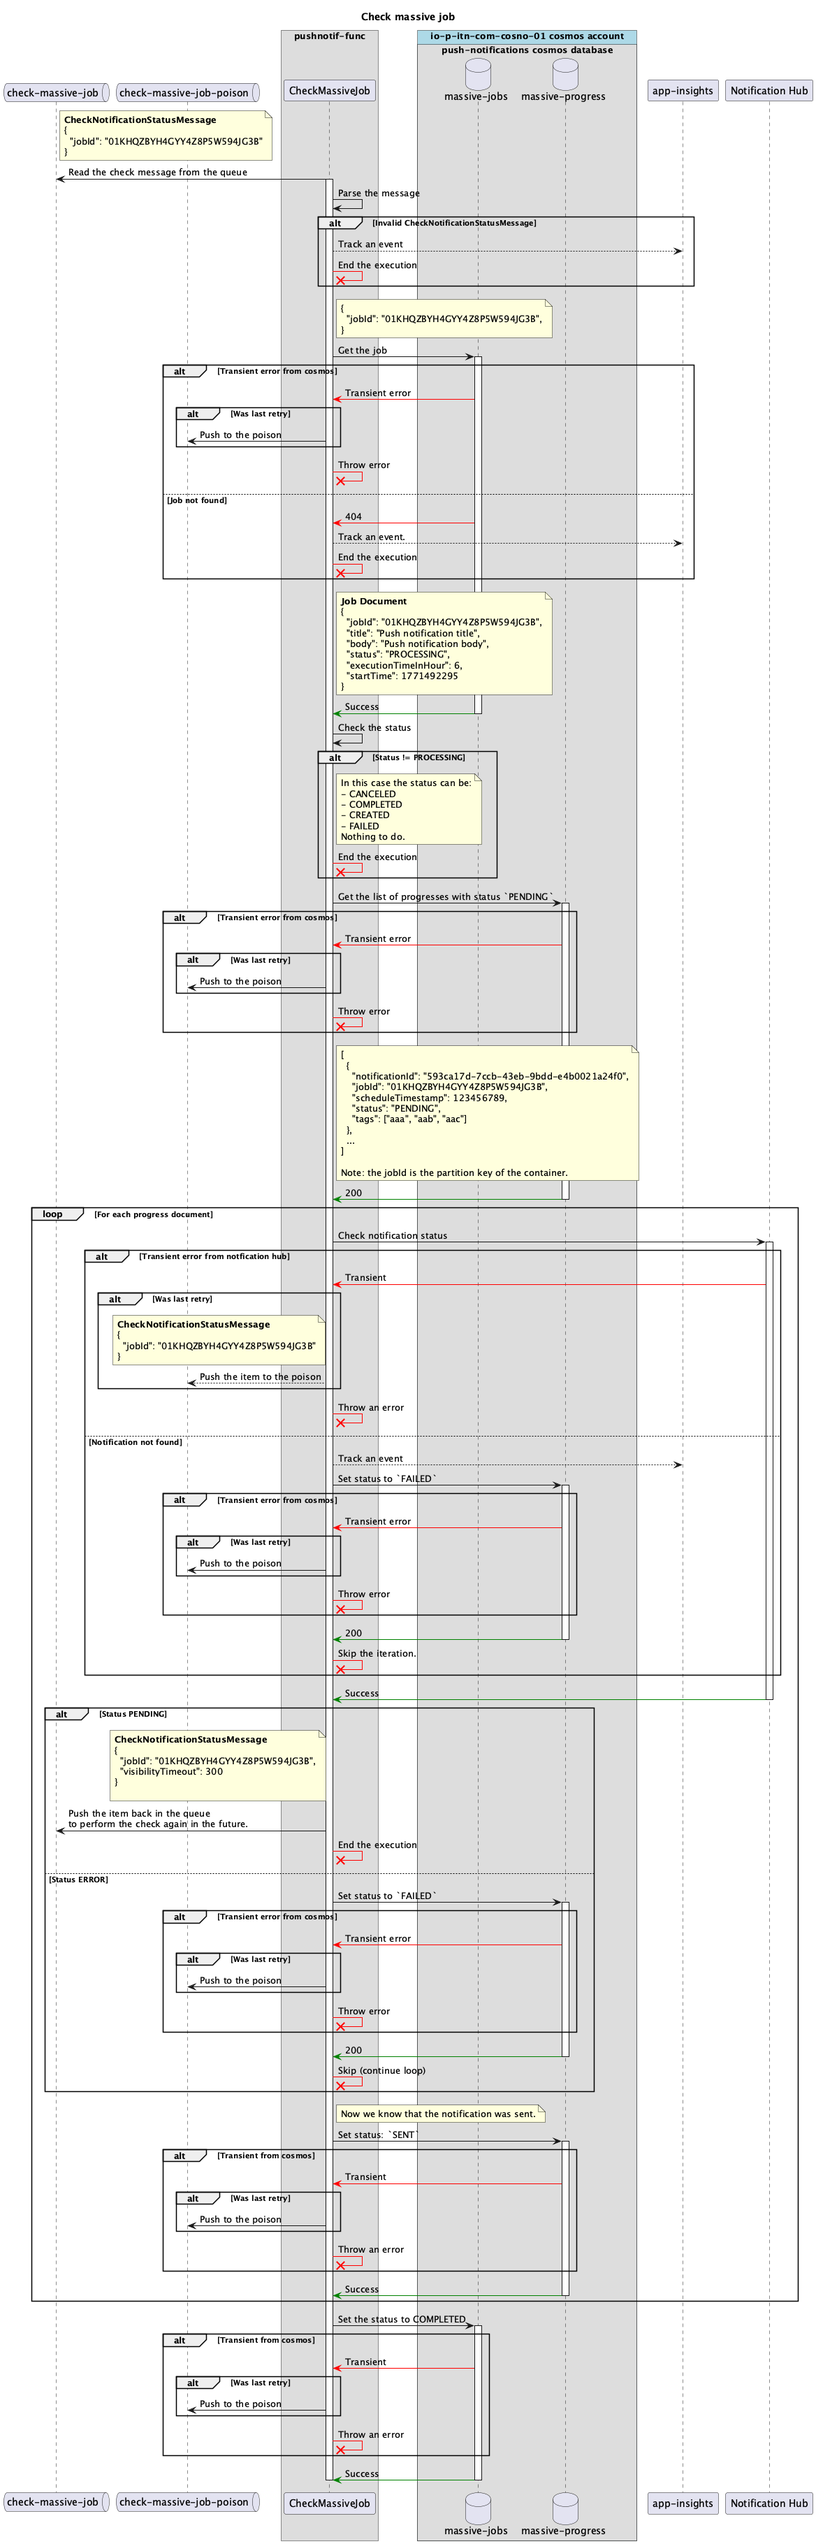
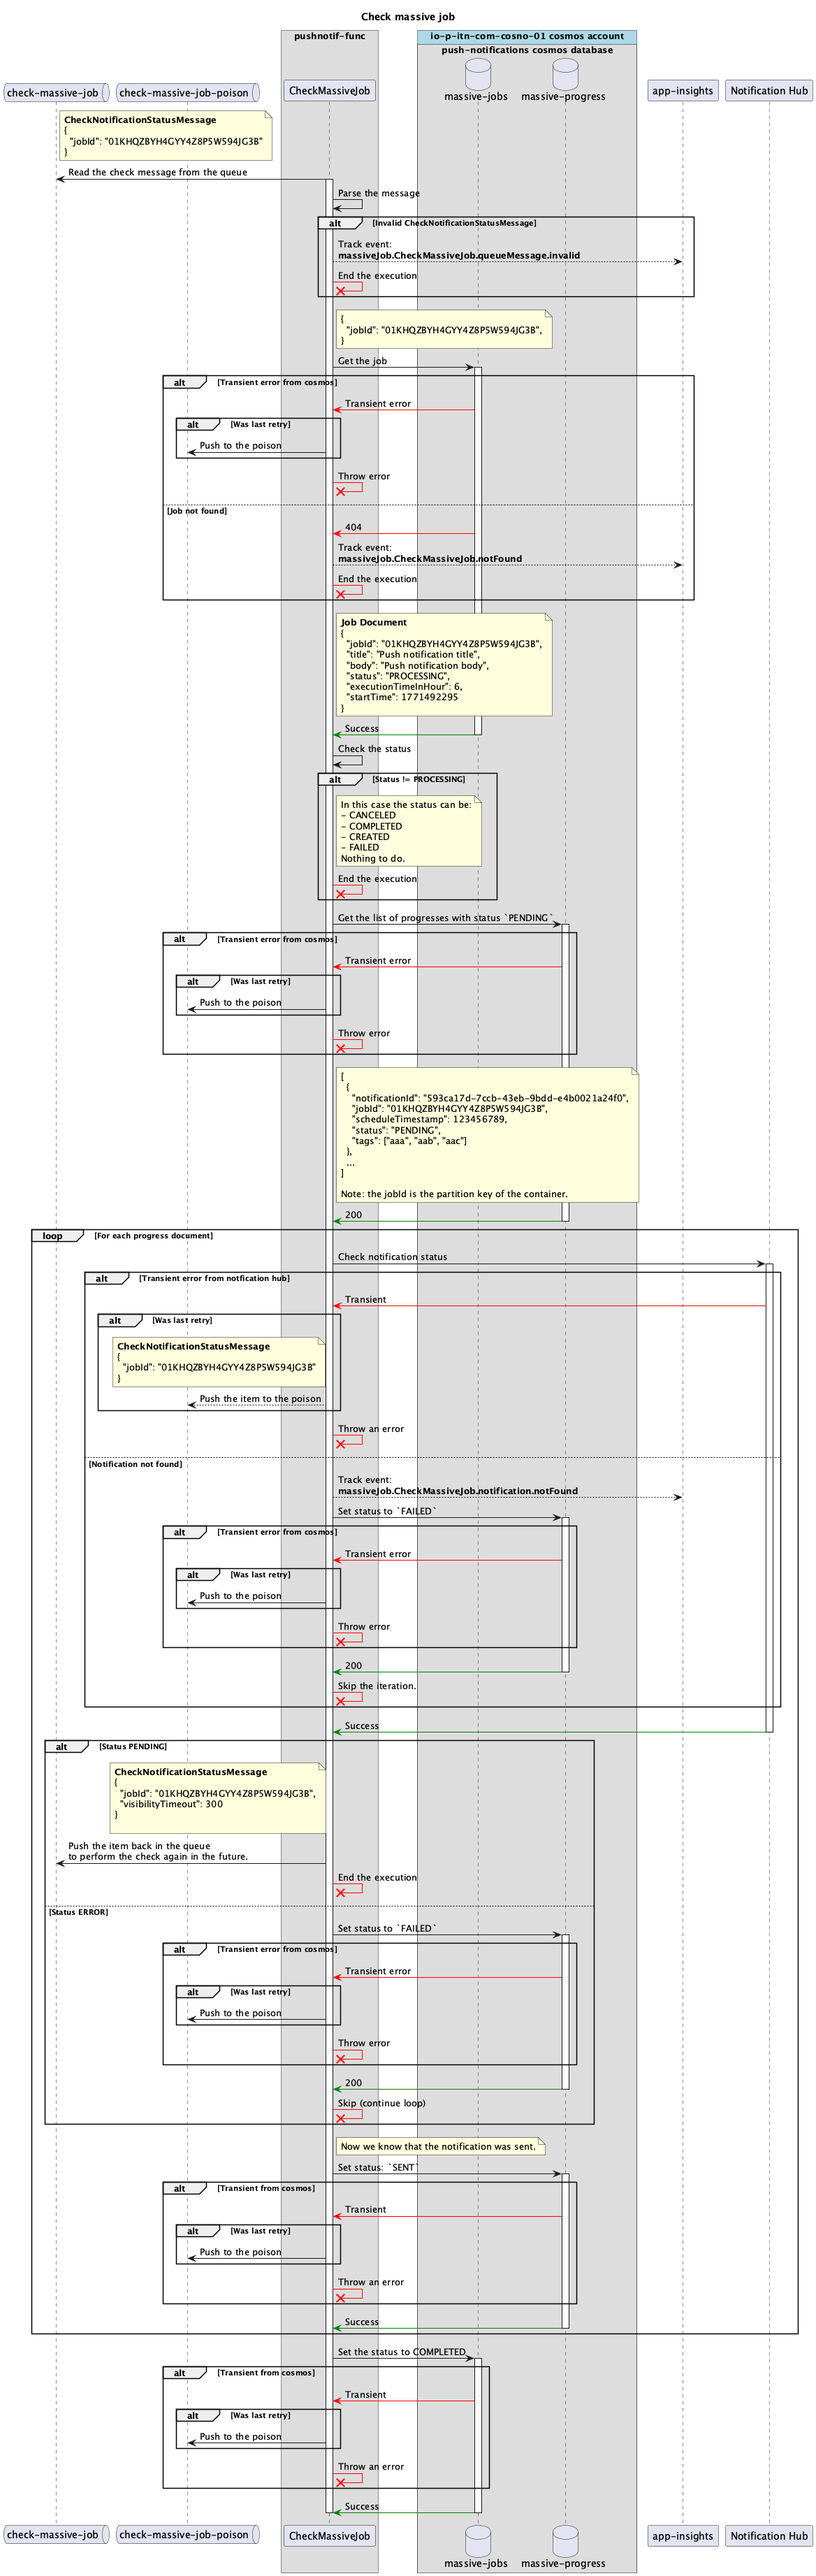
Update massive job event traking
- Define a standard for naming (prefix.phase.outcome)
- Update event names
- Update event payloads
- Align diagrams

Closes IOCOM-3102

diff --git a/apps/pushnotif-func/src/domain/use-cases/__tests__/process-massive-job.test.ts b/apps/pushnotif-func/src/domain/use-cases/__tests__/process-massive-job.test.ts
@@ -201,11 +201,14 @@ describe("ProcessMassiveJobUseCase", () => {
         expect(result).toEqual([notificationID1, notificationID2]);
         expect(massiveProgressRepositoryMock.create).toHaveBeenCalledTimes(2);
         expect(telemetryServiceMock.trackEvent).toHaveBeenCalledWith({
-          name: "massiveJobs.createProgress.failed",
+          name: "massiveJob.ProcessMassiveJob.progress.create.failed",
           properties: {
-            cause: createError.cause,
-            message: createError.message,
-            name: createError.name,
+            errorCause: createError.cause,
+            errorKind: "ErrorInternal",
+            jobId,
+            notificationId: notificationID1,
+            scheduledTimestamp,
+            tags: ["aaa"],
           },
         });
       });
@@ -251,19 +254,25 @@ describe("ProcessMassiveJobUseCase", () => {
         expect(result).toEqual([notificationID1, notificationID2]);
         expect(telemetryServiceMock.trackEvent).toHaveBeenCalledTimes(2);
         expect(telemetryServiceMock.trackEvent).toHaveBeenNthCalledWith(1, {
-          name: "massiveJobs.createProgress.failed",
+          name: "massiveJob.ProcessMassiveJob.progress.create.failed",
           properties: {
-            cause: createError1.cause,
-            message: createError1.message,
-            name: createError1.name,
+            errorCause: createError1.cause,
+            errorKind: "ErrorInternal",
+            jobId,
+            notificationId: notificationID1,
+            scheduledTimestamp,
+            tags: ["aaa"],
           },
         });
         expect(telemetryServiceMock.trackEvent).toHaveBeenNthCalledWith(2, {
-          name: "massiveJobs.createProgress.failed",
+          name: "massiveJob.ProcessMassiveJob.progress.create.failed",
           properties: {
-            cause: createError2.cause,
-            message: createError2.message,
-            name: createError2.name,
+            errorCause: createError2.cause,
+            errorKind: "ErrorInternal",
+            jobId,
+            notificationId: notificationID2,
+            scheduledTimestamp,
+            tags: ["bbb"],
           },
         });
       });

diff --git a/apps/pushnotif-func/src/adapters/functions/process-massive-job.ts b/apps/pushnotif-func/src/adapters/functions/process-massive-job.ts
@@ -29,11 +29,11 @@ export const makeProcessMassiveJobHandler =
       processMassiveNotificationMessageSchema.safeParse(message);
 
     if (!checkNotificationStatusMessage.success) {
-      // TODO: find a standard for event names.
       telemetryService.trackEvent({
-        name: "massiveJobs.invalidProcessMassiveNotificationMessage",
+        name: "massiveJob.ProcessMassiveJob.queueMessage.invalid",
         properties: {
           issues: checkNotificationStatusMessage.error.issues,
+          rawMessage: message,
         },
       });
 
@@ -51,11 +51,14 @@ export const makeProcessMassiveJobHandler =
 
     if (progressIDs instanceof ErrorInternal) {
       telemetryService.trackEvent({
-        name: "massiveJobs.process",
+        name: "massiveJob.ProcessMassiveJob.failed",
         properties: {
-          cause: progressIDs.cause,
-          message: progressIDs.message,
-          name: progressIDs.name,
+          errorCause: progressIDs.cause,
+          errorKind: progressIDs.constructor.name,
+          jobId: checkNotificationStatusMessage.data.jobId,
+          scheduledTimestamp:
+            checkNotificationStatusMessage.data.scheduledTimestamp,
+          tags: checkNotificationStatusMessage.data.tags,
         },
       });
 

diff --git a/apps/pushnotif-func/src/adapters/functions/check-massive-job.ts b/apps/pushnotif-func/src/adapters/functions/check-massive-job.ts
@@ -19,10 +19,12 @@ export const makeCheckMassiveJobHandler =
     const checkNotificationStatusMessage =
       checkNotificationStatusMessageSchema.safeParse(message);
     if (!checkNotificationStatusMessage.success) {
-      // TODO: find a standard for event names.
       telemetryService.trackEvent({
-        name: "massiveJobs.invalidCheckNotificationStatusMessage",
-        properties: { issues: checkNotificationStatusMessage.error.issues },
+        name: "massiveJob.CheckMassiveJob.queueMessage.invalid",
+        properties: {
+          issues: checkNotificationStatusMessage.error.issues,
+          rawMessage: message,
+        },
       });
 
       return;
@@ -33,10 +35,9 @@ export const makeCheckMassiveJobHandler =
     );
 
     if (massiveJob instanceof ErrorNotFound) {
-      // TODO: Find a better name.
       telemetryService.trackEvent({
-        name: "massiveJobs.massiveJobNotFound",
-        properties: { id: checkNotificationStatusMessage.data.jobId },
+        name: "massiveJob.CheckMassiveJob.notFound",
+        properties: { jobId: checkNotificationStatusMessage.data.jobId },
       });
     }
 

diff --git a/apps/pushnotif-func/src/adapters/functions/__tests__/process-massive-job.test.ts b/apps/pushnotif-func/src/adapters/functions/__tests__/process-massive-job.test.ts
@@ -49,7 +49,7 @@ describe("makeProcessMassiveJobHandler", () => {
     await handler(invalidMessage, context);
 
     expect(telemetryServiceMock.trackEvent).toHaveBeenCalledWith({
-      name: "massiveJobs.invalidProcessMassiveNotificationMessage",
+      name: "massiveJob.ProcessMassiveJob.queueMessage.invalid",
       properties: expect.objectContaining({
         issues: expect.any(Array),
       }),
@@ -91,11 +91,13 @@ describe("makeProcessMassiveJobHandler", () => {
       telemetryServiceMock,
     );
     expect(telemetryServiceMock.trackEvent).toHaveBeenCalledWith({
-      name: "massiveJobs.process",
+      name: "massiveJob.ProcessMassiveJob.failed",
       properties: {
-        cause: error.cause,
-        message: error.message,
-        name: error.name,
+        errorCause: error.cause,
+        errorKind: "ErrorInternal",
+        jobId: aValidMessage.jobId,
+        scheduledTimestamp: aValidMessage.scheduledTimestamp,
+        tags: aValidMessage.tags,
       },
     });
   });

diff --git a/apps/pushnotif-func/src/domain/use-cases/process-massive-job.ts b/apps/pushnotif-func/src/domain/use-cases/process-massive-job.ts
@@ -55,11 +55,14 @@ export class ProcessMassiveJobUseCase {
         // In this case we want to ignore the error by simply tracking an event,
         // triggering a retry here would mean sending duplicates to users.
         telemetryService.trackEvent({
-          name: "massiveJobs.createProgress.failed",
+          name: "massiveJob.ProcessMassiveJob.progress.create.failed",
           properties: {
-            cause: createResult.cause,
-            message: createResult.message,
-            name: createResult.name,
+            errorCause: createResult.cause,
+            errorKind: createResult.constructor.name,
+            jobId,
+            notificationId: progress.id,
+            scheduledTimestamp,
+            tags: progress.tags,
           },
         });
         continue;

diff --git a/apps/pushnotif-func/src/domain/use-cases/__tests__/start-massive-notification-job.test.ts b/apps/pushnotif-func/src/domain/use-cases/__tests__/start-massive-notification-job.test.ts
@@ -234,12 +234,14 @@ describe("StartMassiveNotificationJobUseCase - telemetry", () => {
     ).toHaveBeenCalledTimes(820);
     expect(telemetryClientMock.trackEvent).toHaveBeenCalledTimes(1);
     expect(telemetryClientMock.trackEvent).toHaveBeenCalledWith({
-      name: "massiveJobs.FailedToScheduleNotificationBatches",
+      name: "massiveJob.StartMassiveNotificationJob.scheduleBatch.failed",
       properties: {
-        error: sendError.message,
+        batchSize: 5,
+        errorCause: sendError.cause,
+        errorKind: "ErrorInternal",
         jobId,
-        scheduledTimestamp: "1700003608",
-        tags: "000,001,002,003,004",
+        scheduledTimestamp: 1700003608,
+        tags: ["000", "001", "002", "003", "004"],
       },
     });
   });

diff --git a/apps/pushnotif-func/src/domain/use-cases/check-massive-job.ts b/apps/pushnotif-func/src/domain/use-cases/check-massive-job.ts
@@ -92,13 +92,14 @@ export class CheckMassiveJobStatusUseCase {
         );
 
       if (notificationDetails instanceof ErrorNotFound) {
-        // TODO: Find a better name.
         this.telemetryClient.trackEvent({
-          name: "massiveJobs.notificationNotFound",
+          name: "massiveJob.CheckMassiveJob.notification.notFound",
           properties: {
-            cause: notificationDetails.cause,
-            message: notificationDetails.message,
-            name: notificationDetails.name,
+            errorCause: notificationDetails.cause,
+            errorKind: notificationDetails.constructor.name,
+            jobId: jobID,
+            notificationId: progress.id,
+            tag: progress.tags[0],
           },
         });
 

diff --git a/apps/pushnotif-func/src/domain/use-cases/start-massive-notification-job.ts b/apps/pushnotif-func/src/domain/use-cases/start-massive-notification-job.ts
@@ -94,12 +94,14 @@ export class MakeStartMassiveNotificationJobUseCase {
 
       if (sendMessageResult instanceof ErrorInternal) {
         this.telemetryClient.trackEvent({
-          name: "massiveJobs.FailedToScheduleNotificationBatches",
+          name: "massiveJob.StartMassiveNotificationJob.scheduleBatch.failed",
           properties: {
-            error: sendMessageResult.message,
+            batchSize,
+            errorCause: sendMessageResult.cause,
+            errorKind: sendMessageResult.constructor.name,
             jobId: massiveJob.id,
-            scheduledTimestamp: scheduledTimestamp.toString(),
-            tags: tags.join(","),
+            scheduledTimestamp,
+            tags,
           },
         });
       }

diff --git a/apps/pushnotif-func/src/domain/use-cases/__tests__/check-massive-job.test.ts b/apps/pushnotif-func/src/domain/use-cases/__tests__/check-massive-job.test.ts
@@ -143,11 +143,13 @@ describe("CheckMassiveJobStatusUseCase status management", () => {
       MassiveProgressStatusEnum.enum.FAILED,
     );
     expect(telemetryServiceMock.trackEvent).toHaveBeenCalledWith({
-      name: "massiveJobs.notificationNotFound",
+      name: "massiveJob.CheckMassiveJob.notification.notFound",
       properties: {
-        cause: notFoundError.cause,
-        message: notFoundError.message,
-        name: notFoundError.name,
+        errorCause: notFoundError.cause,
+        errorKind: "ErrorNotFound",
+        jobId,
+        notificationId: pendingProgress.id,
+        tag: pendingProgress.tags[0],
       },
     });
     expect(massiveJobsRepositoryMock.setStatus).toHaveBeenCalledWith(

diff --git a/apps/pushnotif-func/src/adapters/functions/__tests__/check-massive-job.test.ts b/apps/pushnotif-func/src/adapters/functions/__tests__/check-massive-job.test.ts
@@ -33,8 +33,11 @@ describe("getCheckMassiveJobHandler", () => {
     await handler({ jobId: "invalid-id" }, context);
 
     expect(telemetryServiceMock.trackEvent).toHaveBeenCalledWith({
-      name: "massiveJobs.invalidCheckNotificationStatusMessage",
-      properties: { issues: expect.any(Array) },
+      name: "massiveJob.CheckMassiveJob.queueMessage.invalid",
+      properties: {
+        issues: expect.any(Array),
+        rawMessage: { jobId: "invalid-id" },
+      },
     });
     expect(useCaseMock.execute).not.toHaveBeenCalled();
   });
